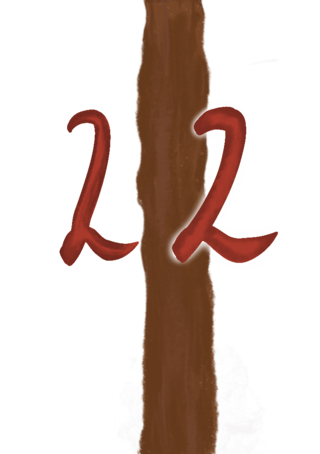
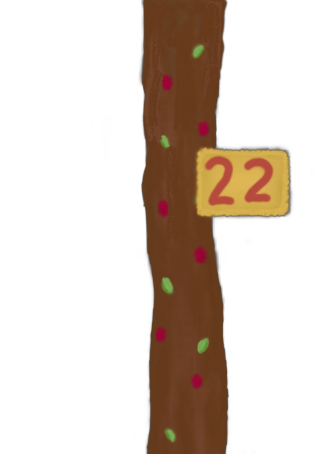
tag 22

diff --git a/src/main.ts b/src/main.ts
@@ -4,7 +4,7 @@ const app = express();
 app.set("view engine", "ejs");
 
 app.get("/", (request, response) => {
-	response.render("index", { currentDay: 21 });
+	response.render("index", { currentDay: 22 });
 });
 app.get("/tag/:number", (request, response) => {
 	if (request.params.number === "6") {
